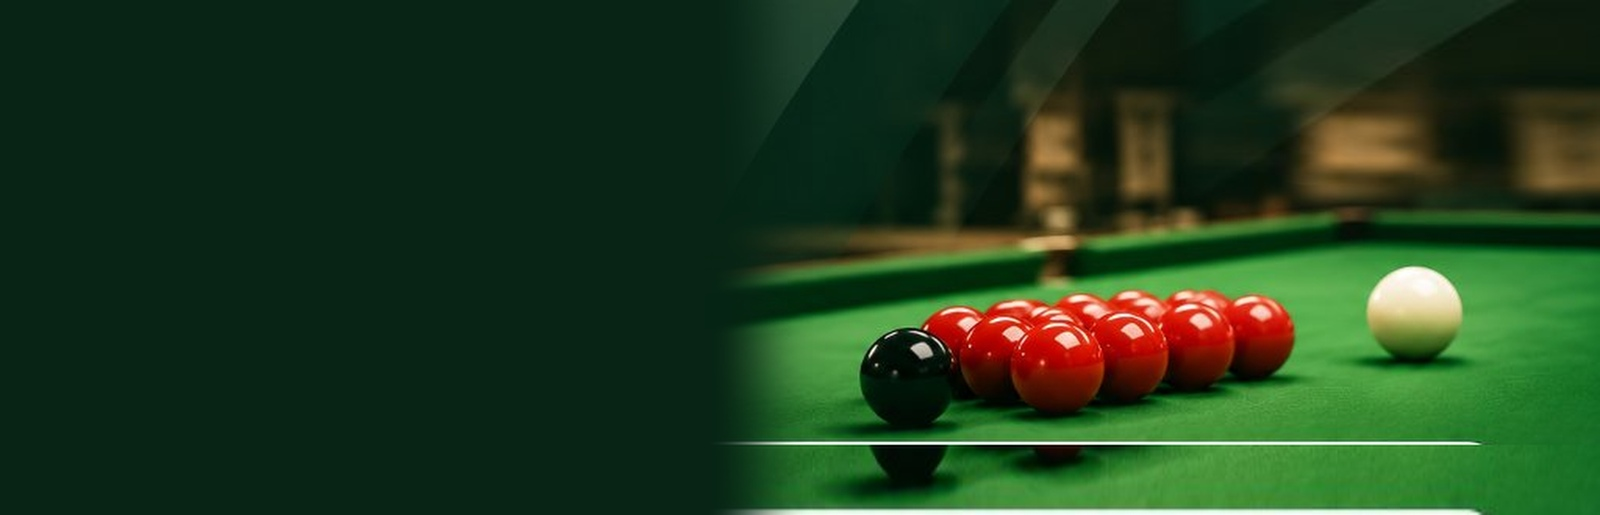
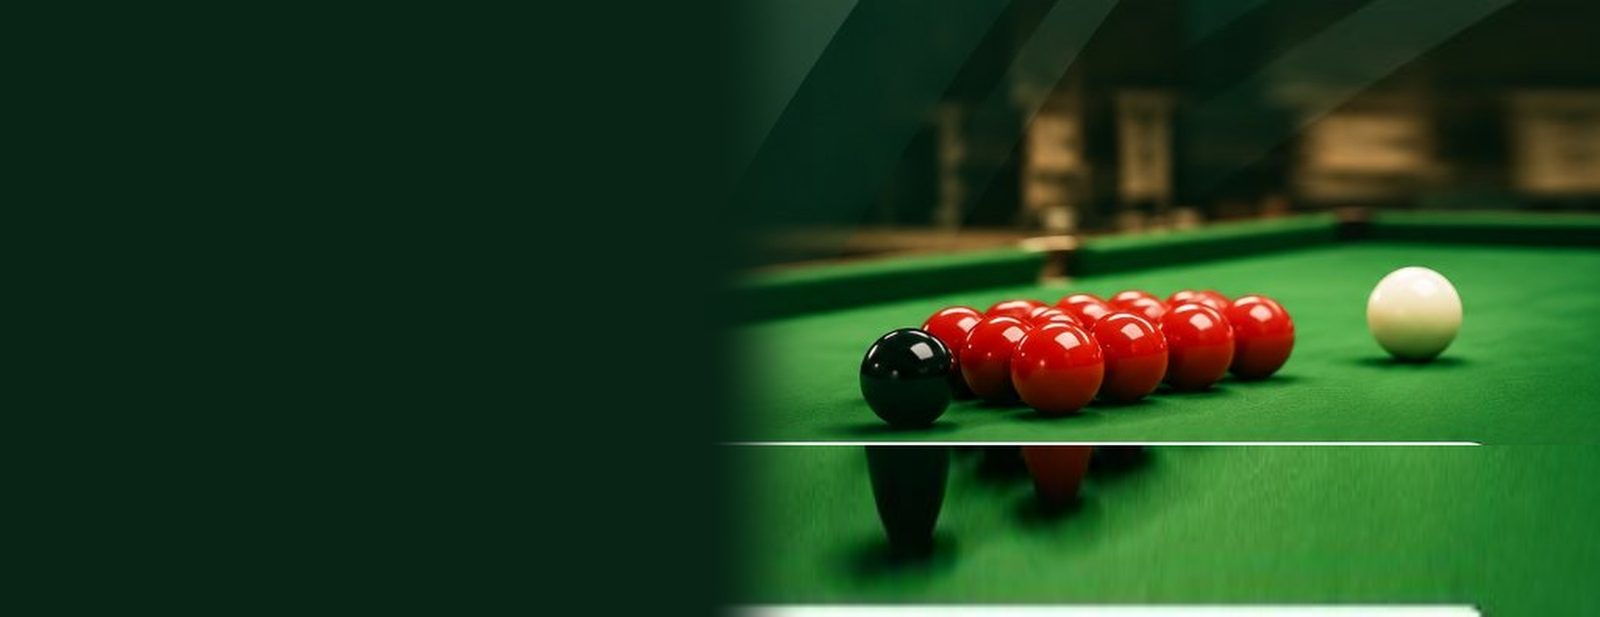
done

Changed region(s): [[0.4375, 0.1243, 1.0, 0.9942], [0.9375, 0.1243, 1.0, 0.2485]]

diff --git a/frontend/app/globals.css b/frontend/app/globals.css
@@ -793,7 +793,7 @@
   background-repeat: no-repeat;
   background-position: right top;
   background-size: cover;
-  padding: 16px 14px 44px 14px;
+  padding: 14px 14px 22px 14px;
   overflow: hidden;
   box-sizing: border-box;
   width: 100%;
@@ -942,15 +942,15 @@
   filter: drop-shadow(0 2px 8px rgba(0,0,0,0.25));
 }
 
-/* 2. White Curved Sheet Overlay */
+/* 2. Soft Linen Curved Sheet with Categories */
 .mobile-curved-sheet {
-  background: #fafbfa;
+  background: #f4efeb;
   border-radius: 28px 28px 0 0;
-  margin-top: -22px;
+  margin-top: -26px;
   position: relative;
-  z-index: 10;
+  z-index: 2;
   padding: 16px 14px 14px 14px;
-  box-shadow: 0 -8px 25px rgba(0, 0, 0, 0.08);
+  box-shadow: 0 -4px 20px rgba(0, 0, 0, 0.06);
   box-sizing: border-box;
   width: 100%;
   max-width: 100%;
@@ -966,21 +966,24 @@
   overflow: hidden;
 }
 
-/* Pill Search Bar */
+/* Pill Search Bar Floating on Green Hero */
 .mobile-pill-search {
-  height: 50px;
+  height: 52px;
   border-radius: 9999px;
   background: #ffffff;
-  border: 1px solid #e1e8e3;
-  box-shadow: 0 2px 8px rgba(0, 0, 0, 0.03);
+  border: 1px solid rgba(0, 0, 0, 0.05);
+  box-shadow: 0 4px 20px rgba(0, 0, 0, 0.12);
   display: flex;
   align-items: center;
-  padding: 0 14px;
+  padding: 0 16px;
   gap: 10px;
   width: 100%;
   max-width: 100%;
   box-sizing: border-box;
   min-width: 0;
+  margin-top: 14px;
+  position: relative;
+  z-index: 5;
 }
 
 .mobile-search-icon {
@@ -1019,7 +1022,7 @@
 
 /* Horizontal Category Scroll Rail */
 .mobile-cat-rail {
-  margin-top: 14px;
+  margin-top: 0;
   display: flex;
   gap: 9px;
   overflow-x: auto;
@@ -1320,9 +1323,9 @@
    ============================================================================== */
 @media (min-width: 961px) {
   .mobile-hero-top {
-    padding: 24px 32px 54px 32px;
+    padding: 20px 32px 30px 32px;
     background-size: 780px auto;
-    background-position: right 50px bottom -10px;
+    background-position: right 50px top 0px;
   }
 
   .mobile-brand-img {
@@ -1335,20 +1338,20 @@
   }
 
   .mobile-curved-sheet {
-    margin-top: -26px;
-    padding: 22px 32px 18px 32px;
+    margin-top: -28px;
+    padding: 20px 32px 16px 32px;
   }
 
   .mobile-pill-search {
     max-width: 620px;
-    margin: 0 auto;
-    box-shadow: 0 4px 16px rgba(0, 0, 0, 0.04);
+    margin: 18px auto 0 auto;
+    box-shadow: 0 6px 24px rgba(0, 0, 0, 0.14);
   }
 
   .mobile-cat-rail {
     justify-content: center;
     gap: 18px;
-    margin-top: 18px;
+    margin-top: 0;
     overflow-x: visible;
   }
 

diff --git a/frontend/components/storefront-shell.tsx b/frontend/components/storefront-shell.tsx
@@ -535,13 +535,8 @@ export function SiteHeader() {
                   />
                 </Link>
               </div>
-            </div>
-          </div>
 
-          {/* White Curved Sheet Overlay */}
-          <div className="mobile-curved-sheet">
-            <div className="mobile-curved-sheet-inner">
-              {/* Search Pill Bar */}
+              {/* Row 3: Floating Search Pill Bar on Green Hero */}
               <form className="mobile-pill-search" onSubmit={submitSearch}>
                 <Search size={19} className="mobile-search-icon" />
                 <input
@@ -560,7 +555,12 @@ export function SiteHeader() {
                   <SlidersHorizontal size={19} strokeWidth={2.2} />
                 </button>
               </form>
+            </div>
+          </div>
 
+          {/* Soft Linen Curved Sheet with Categories */}
+          <div className="mobile-curved-sheet">
+            <div className="mobile-curved-sheet-inner">
               {/* Category Quick Rail */}
               <div className="mobile-cat-rail">
                 {mobileCategories.map((cat) => {
